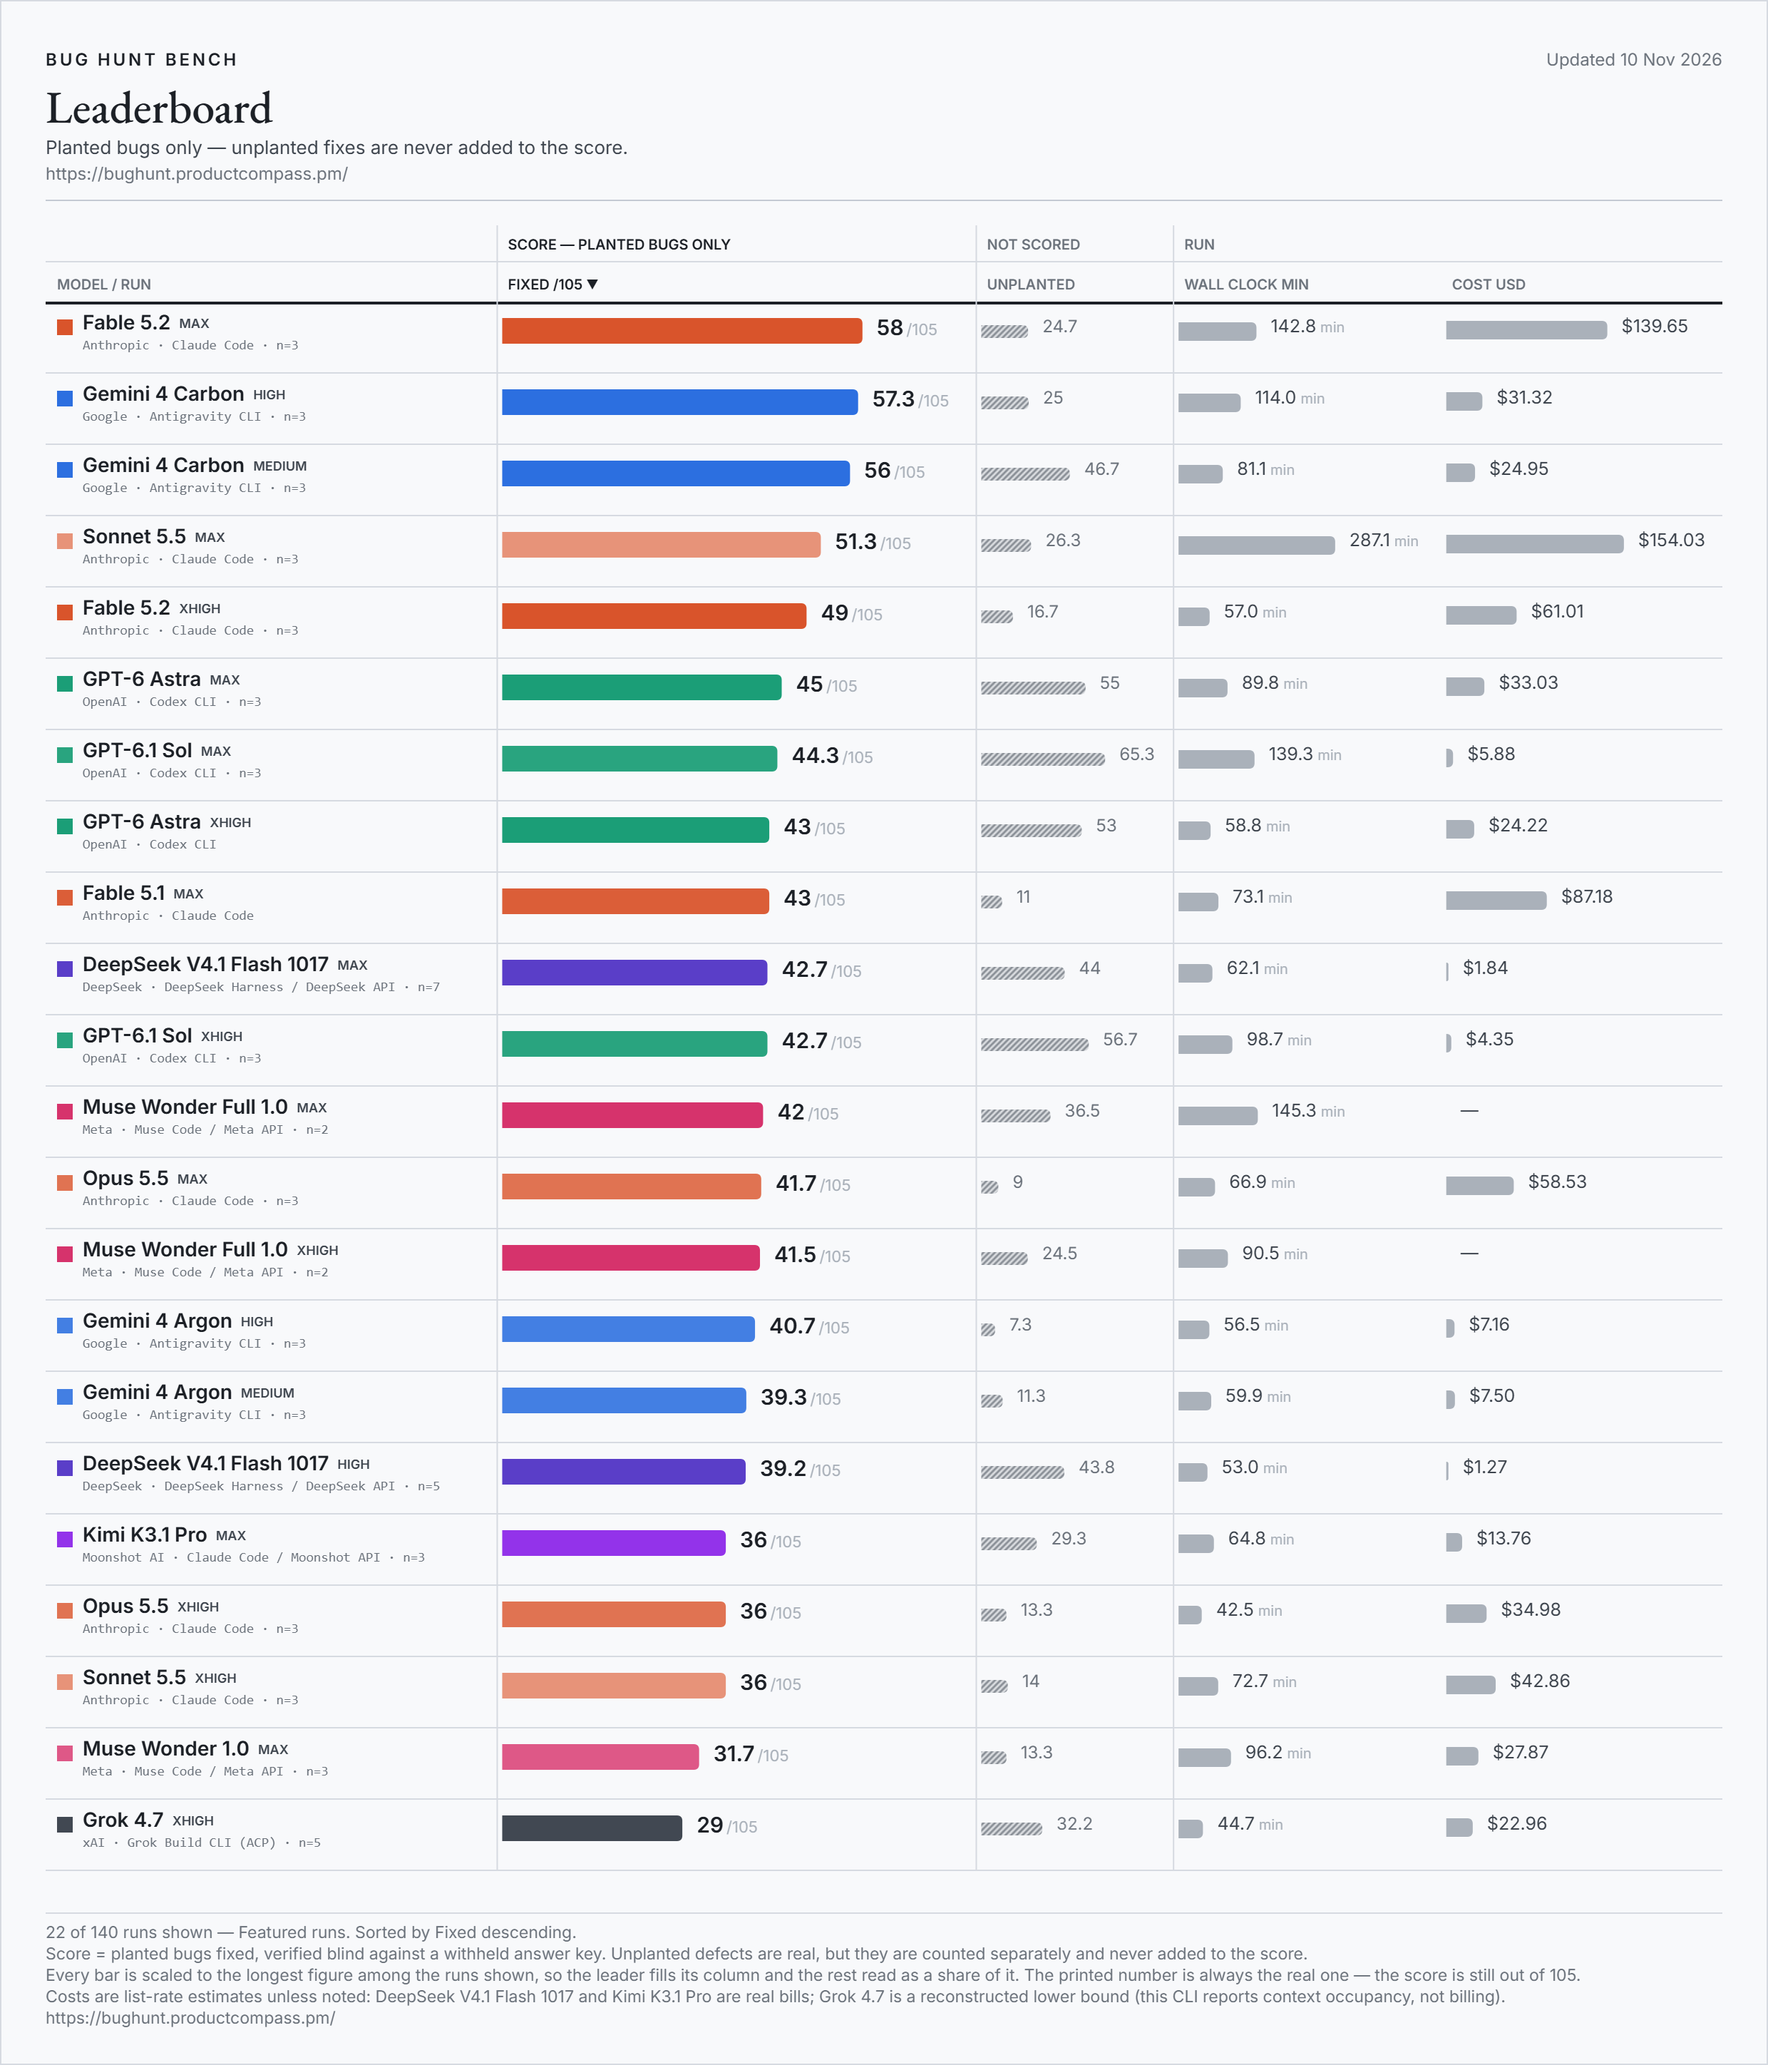
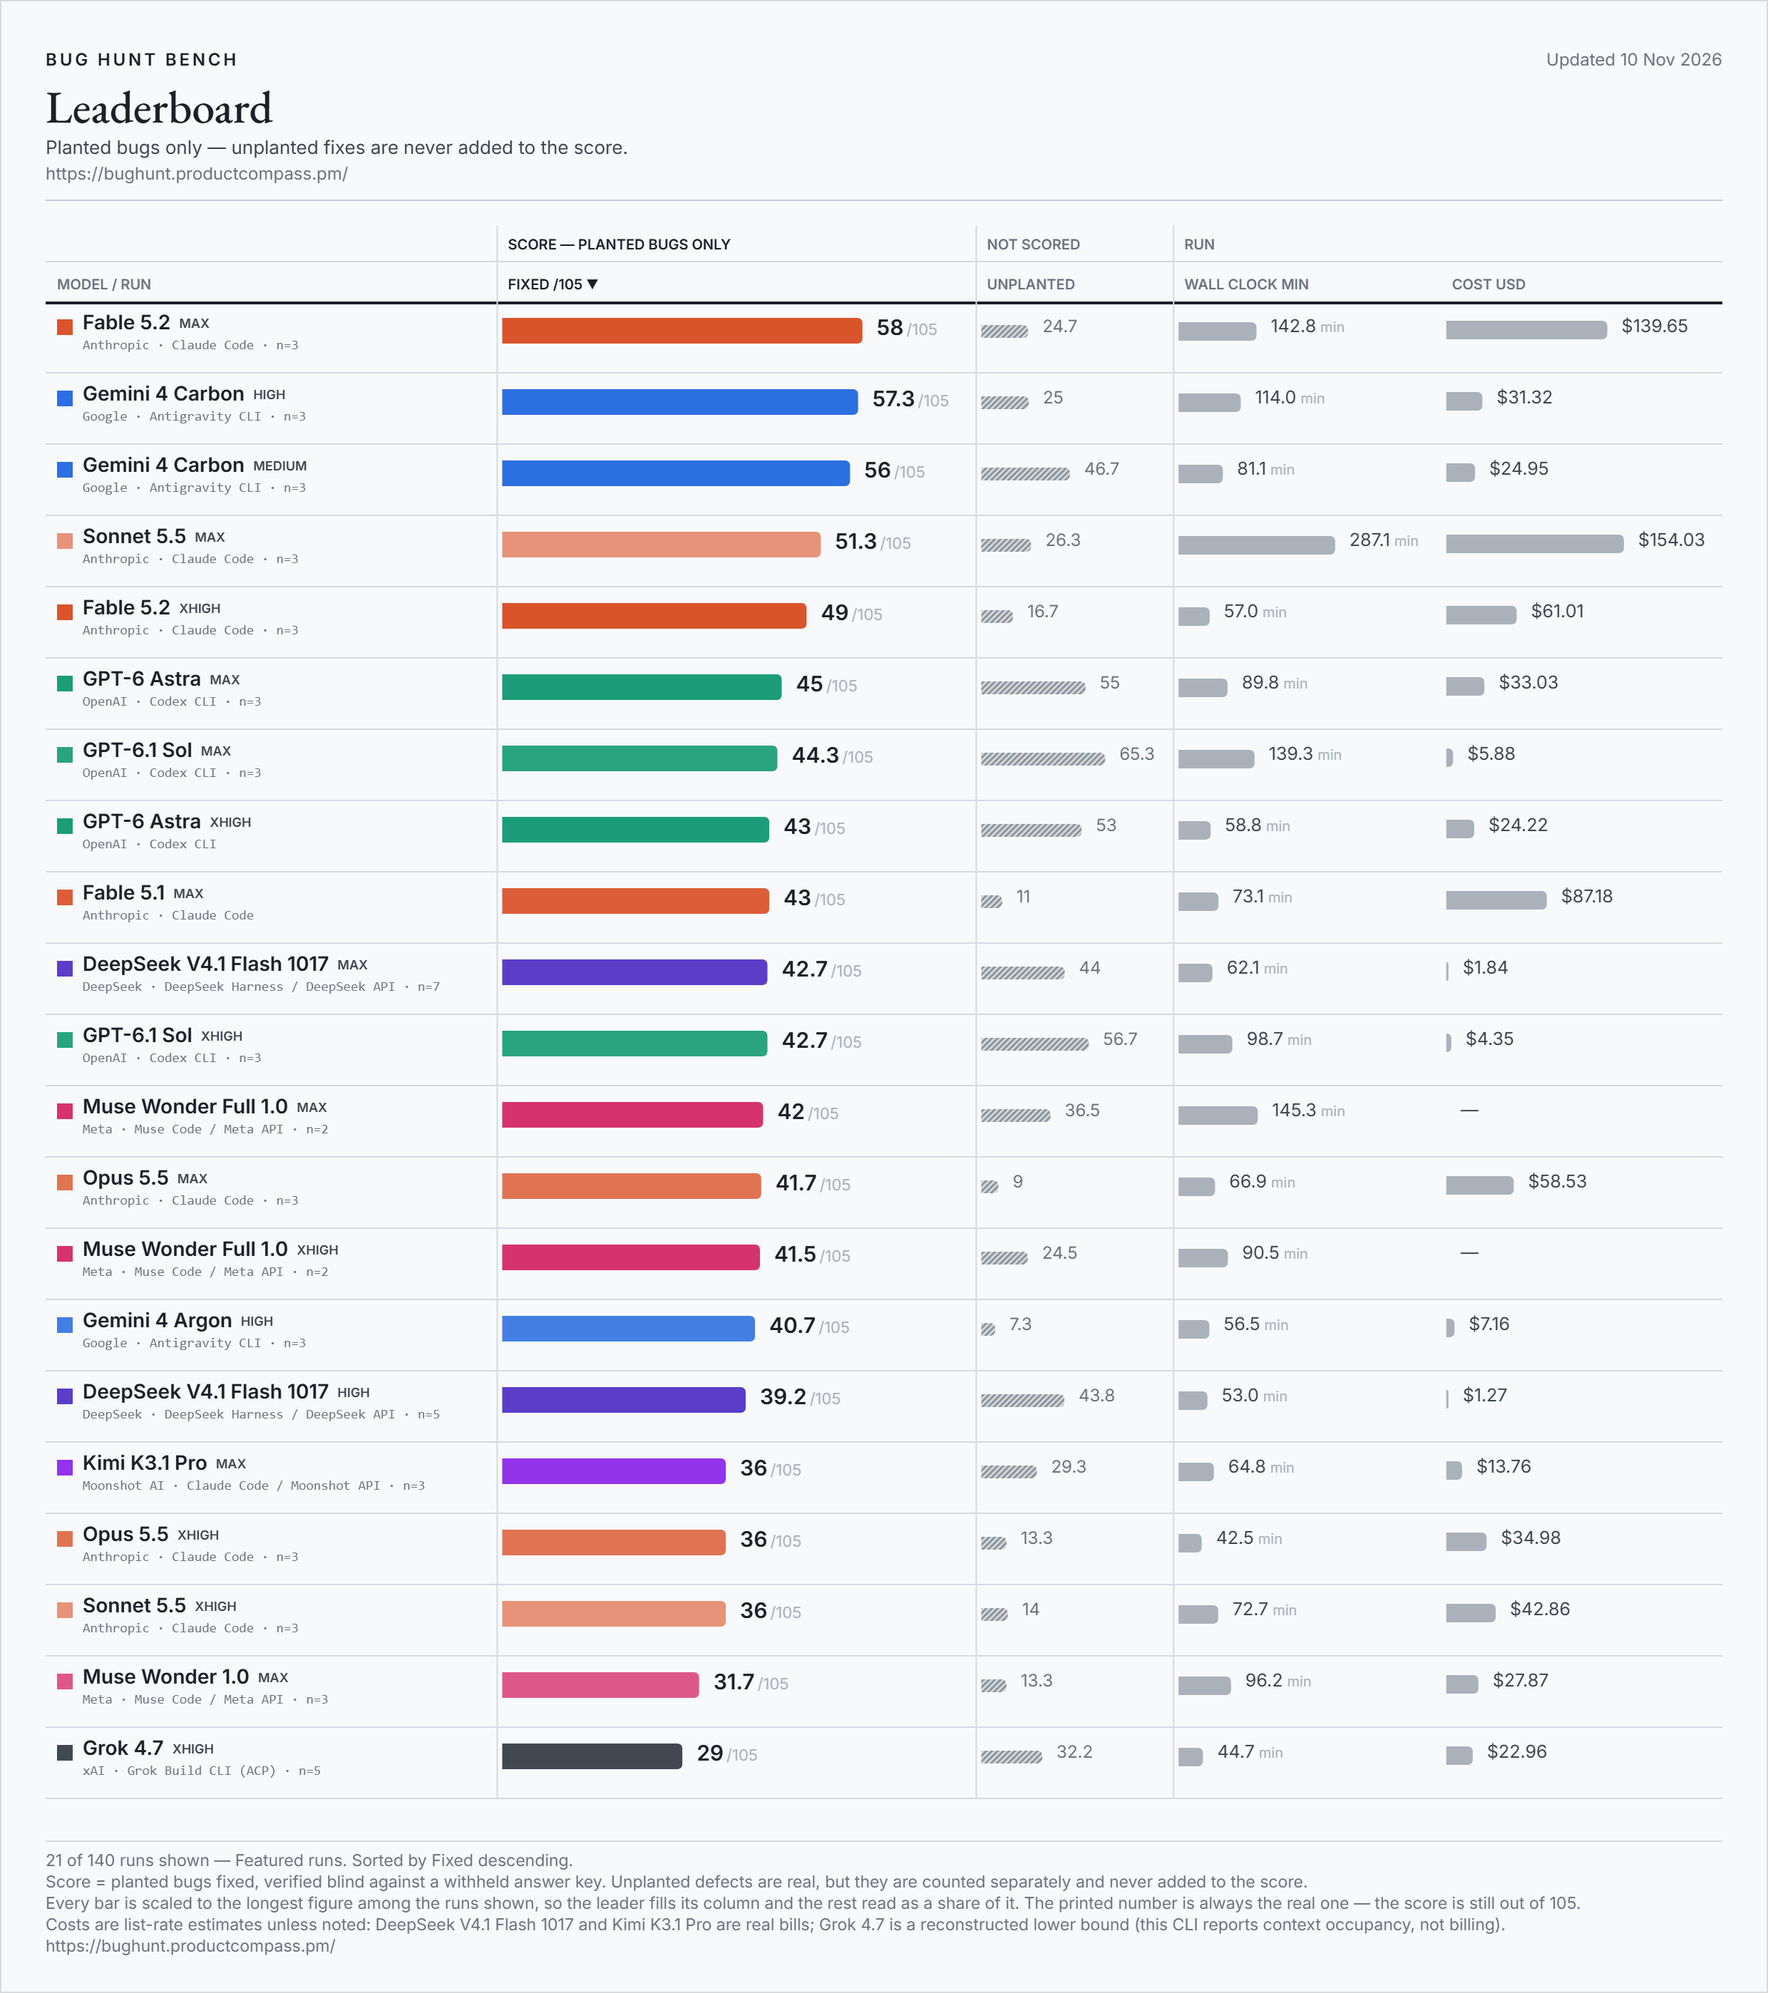
bug hunt bench: unfeature Gemini 4 Argon (medium effort)

diff --git a/index.html b/index.html
@@ -22,14 +22,14 @@
 <meta property="og:title" content="Bug Hunt Bench — frontier coding models against real planted bugs">
 <meta property="og:description" content="A blind-graded benchmark of frontier coding models on real bugs planted in two production codebases. The score counts planted bugs only; extra fixes are tracked separately and never added.">
 <meta property="og:url" content="https://bughunt.productcompass.pm/">
-<meta property="og:image" content="https://bughunt.productcompass.pm/og-image.png?v=2026-11-10-4f13f053">
+<meta property="og:image" content="https://bughunt.productcompass.pm/og-image.png?v=2026-11-10-11e3ebdc">
 <meta property="og:image:width" content="1200">
 <meta property="og:image:height" content="630">
 <meta property="og:image:alt" content="Bug Hunt Bench leaderboard">
 <meta name="twitter:card" content="summary_large_image">
 <meta name="twitter:title" content="Bug Hunt Bench — frontier coding models against real planted bugs">
 <meta name="twitter:description" content="A blind-graded benchmark of frontier coding models on real bugs planted in two production codebases. The score counts planted bugs only.">
-<meta name="twitter:image" content="https://bughunt.productcompass.pm/og-image.png?v=2026-11-10-4f13f053">
+<meta name="twitter:image" content="https://bughunt.productcompass.pm/og-image.png?v=2026-11-10-11e3ebdc">
 <meta name="twitter:creator" content="@PawelHuryn">
 
 <link rel="icon" href="/assets/favicon.svg" type="image/svg+xml">

diff --git a/method.html b/method.html
@@ -20,14 +20,14 @@
 <meta property="og:title" content="Method, caveats and definitions — Bug Hunt Bench">
 <meta property="og:description" content="How Bug Hunt Bench is run and graded, what the board cannot tell you, and what every column on it means.">
 <meta property="og:url" content="https://bughunt.productcompass.pm/method">
-<meta property="og:image" content="https://bughunt.productcompass.pm/og-image.png?v=2026-11-10-4f13f053">
+<meta property="og:image" content="https://bughunt.productcompass.pm/og-image.png?v=2026-11-10-11e3ebdc">
 <meta property="og:image:width" content="1200">
 <meta property="og:image:height" content="630">
 <meta property="og:image:alt" content="Bug Hunt Bench leaderboard">
 <meta name="twitter:card" content="summary_large_image">
 <meta name="twitter:title" content="Method, caveats and definitions — Bug Hunt Bench">
 <meta name="twitter:description" content="How Bug Hunt Bench is run and graded, what the board cannot tell you, and what every column on it means.">
-<meta name="twitter:image" content="https://bughunt.productcompass.pm/og-image.png?v=2026-11-10-4f13f053">
+<meta name="twitter:image" content="https://bughunt.productcompass.pm/og-image.png?v=2026-11-10-11e3ebdc">
 <meta name="twitter:creator" content="@PawelHuryn">
 
 <link rel="icon" href="/assets/favicon.svg" type="image/svg+xml">

diff --git a/README.md b/README.md
@@ -7,7 +7,7 @@
 If the numbers save you a benchmark run of your own, **star this repo** — that is what keeps the bench findable, and new models are added as they ship.
 
 <!-- leaderboard:start -->
-![Bug Hunt Bench leaderboard, the featured runs, updated Nov 10, 2026](assets/leaderboard.png?v=2026-11-10-ebeff9e7)
+![Bug Hunt Bench leaderboard, the featured runs, updated Nov 10, 2026](assets/leaderboard.png?v=2026-11-10-d00a74a7)
 
 **Updated Nov 10, 2026 · 214 rows from 326 scored runs · 51 models · 23 of 105 bugs have never been fixed by any model.**
 
